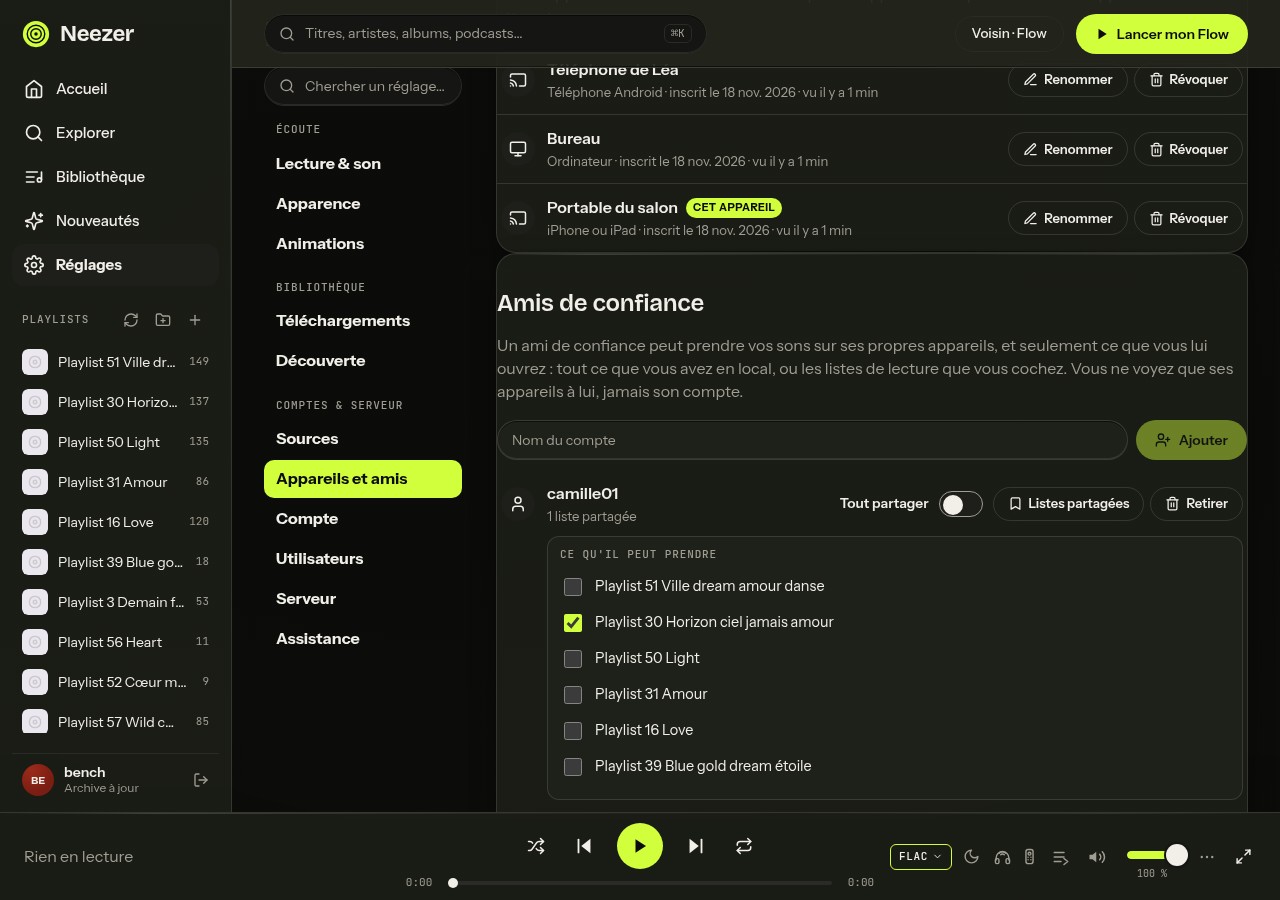
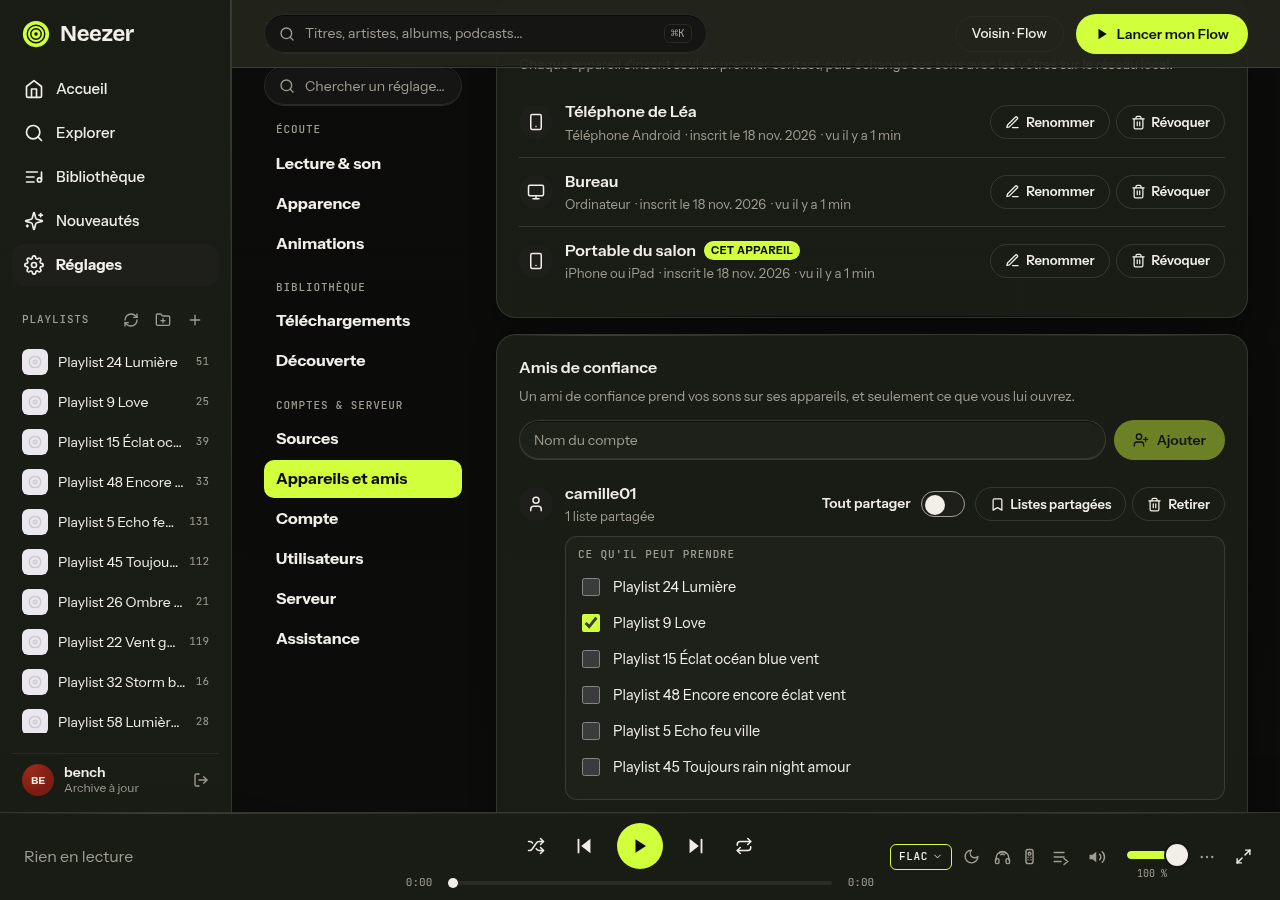
fix(lan): LN8 — le gabarit des cartes, les glyphes de plateforme et la ligne meta
Relecture orchestrateur de #326 :
1. les cartes reprennent le gabarit intérieur de Réglages (22 px de padding,
   titre 16 px/600, sous-titre 0,85 rem) — un composant enfant n'hérite pas du
   CSS de l'écran qui le rend, le contenu touchait le bord (0 px mesuré) ;
2. glyphe de téléphone pour Android et iOS (ajout de « smartphone » à
   Icon.svelte, autorisé par l'orchestrateur), écran pour un ordinateur ;
3. chaque fait de la ligne meta est un segment insécable et la ligne casse
   entre eux (« vu il y / a 1 min » mesuré à 340 px) ; la date d'inscription est
   le fait que la colonne étroite abandonne (≤ 760 px) ;
4. explication des appareils en une phrase : 3 lignes avant le premier appareil
   à 340 px (4 avant) ; la dernière carte finit 32 px au-dessus du mini-lecteur
   (676 ≤ 708).

Captures refaites et vérifiées : bureau, sélecteur, carte Serveur, 390, 340,
serveur sans la fonction.

diff --git a/webapp/src/components/LanSettings.svelte b/webapp/src/components/LanSettings.svelte
@@ -362,9 +362,8 @@
       {#if devices.length}<span class="count muted">{devices.length}</span>{/if}
     </div>
     <p class="muted sub">
-      Chaque appareil s'inscrit tout seul au premier contact avec le serveur, puis échange ses sons
-      avec vos autres appareils sur le même réseau. Révoquer un appareil le coupe chez tous vos
-      appareils&nbsp;: il devra se réinscrire.
+      Chaque appareil s'inscrit seul au premier contact, puis échange ses sons avec les vôtres sur le
+      réseau local.
     </p>
 
     {#if !devices.length}
@@ -404,7 +403,14 @@
                   {#if lan.deviceState(d) === "current"}<span class="tag">cet appareil</span>{/if}
                   {#if lan.deviceState(d) === "revoked"}<span class="tag tag-off">révoqué</span>{/if}
                 </span>
-                <span class="meta muted">{lan.deviceDetail(d, now)}</span>
+                <span class="meta muted">
+                  {#each lan.deviceSegments(d, now) as fact, i}
+                    <!-- The dot is GLUED to the segment it introduces: a
+                         separator of its own could end a line alone. The
+                         enrolment date is the fact a narrow column drops. -->
+                    <span class="seg" class:wide-only={fact.kind === "enrolled"}>{i > 0 ? "· " : ""}{fact.text}</span>
+                  {/each}
+                </span>
               {/if}
             </div>
             <div class="acts">
@@ -415,6 +421,7 @@
                   Confirmer la révocation
                 </button>
                 <button class="btn btn-sm btn-ghost" on:click={() => (confirming = null)}>Annuler</button>
+                <span class="confirm-hint muted small">Il devra se réinscrire.</span>
               {:else}
                 <button
                   class="btn btn-sm btn-ghost"
@@ -450,9 +457,7 @@
   <section class="card">
     <h2>Amis de confiance</h2>
     <p class="muted sub">
-      Un ami de confiance peut prendre vos sons sur ses propres appareils, et seulement ce que vous
-      lui ouvrez&nbsp;: tout ce que vous avez en local, ou les listes de lecture que vous cochez.
-      Vous ne voyez que ses appareils à lui, jamais son compte.
+      Un ami de confiance prend vos sons sur ses appareils, et seulement ce que vous lui ouvrez.
     </p>
 
     <form class="add" on:submit|preventDefault={addFriend}>
@@ -680,6 +685,31 @@
 {/if}
 
 <style>
+  /* The cards carry Réglages' inner gabarit: 22 px of padding, 16 px of gap to
+     the next card, a 16 px/600 title and a 0.85 rem subtitle (Settings.svelte's
+     own `.card`, `.card h2`, `.sub`). Svelte scopes CSS per component, so those
+     rules do not reach these sections: without this block the title and every
+     paragraph sat flush against the card's border while the rows were indented. */
+  .card {
+    padding: 22px;
+    margin-bottom: 16px;
+  }
+  .card:last-of-type {
+    margin-bottom: 0;
+  }
+  h2 {
+    margin: 0 0 8px;
+    font-family: var(--font-body);
+    font-size: 16px;
+    font-weight: 600;
+    letter-spacing: 0;
+    line-height: 1.3;
+  }
+  .sub {
+    font-size: 0.85rem;
+    line-height: 1.5;
+    margin: 4px 0 14px;
+  }
   .head {
     display: flex;
     align-items: baseline;
@@ -724,7 +754,9 @@
     grid-template-columns: 34px minmax(0, 1fr);
     align-items: center;
     gap: 4px 12px;
-    padding: 12px 4px;
+    /* No horizontal inset: the glyph starts on the card's own content edge, in
+       line with the title above it. */
+    padding: 12px 0;
   }
   .member + .member {
     border-top: 1px solid var(--ln);
@@ -758,9 +790,25 @@
     font-weight: 600;
     overflow-wrap: anywhere;
   }
+  /* One fact per segment, each unbreakable: at 340 px the line wraps between
+     "inscrit le 18 nov. 2026" and "vu il y a 1 min", never through one of them
+     ("vu il y / a 1 min" was what a plain text run did). */
   .meta {
+    display: flex;
+    flex-wrap: wrap;
+    align-items: baseline;
+    gap: 0 5px;
     font-size: 0.82rem;
-    overflow-wrap: anywhere;
+  }
+  .seg {
+    white-space: nowrap;
+  }
+  /* Three facts do not fit a phone's column: the enrolment date goes first, so
+     a row keeps the platform and the last sighting on one line each. */
+  @media (max-width: 760px) {
+    .wide-only {
+      display: none;
+    }
   }
   .tag {
     font-size: 0.68rem;
@@ -793,6 +841,10 @@
   }
   .danger:hover:not(:disabled) {
     background: var(--s2);
+  }
+  .confirm-hint {
+    flex-basis: 100%;
+    text-align: right;
   }
   .rename {
     display: flex;

diff --git a/webapp/src/lib/lan.js b/webapp/src/lib/lan.js
@@ -217,9 +217,13 @@ export function platformLabel(platform) {
   }
 }
 
-/** The glyph of one platform (Icon.svelte names). */
+/**
+ * The glyph of one platform (Icon.svelte names): a screen for a computer, a
+ * phone for a handset. `ios` does not say whether it is an iPhone or an iPad,
+ * so it gets the phone too rather than a glyph that would guess wrong.
+ */
 export function platformIcon(platform) {
-  return platform === "desktop" ? "monitor" : "cast";
+  return platform === "desktop" ? "monitor" : "smartphone";
 }
 
 /** "current" | "revoked" | "enrolled" — what a device row's state is called. */
@@ -259,14 +263,29 @@ export function enrolledLabel(iso) {
   return new Date(at).toLocaleDateString("fr-FR", { day: "numeric", month: "short", year: "numeric" });
 }
 
-/** One device's second line: its platform, when it enrolled, when it was seen. */
-export function deviceDetail(device, now = Date.now()) {
-  if (!device) return "";
-  const parts = [platformLabel(device.platform)];
+/**
+ * One device's second line, FACT by fact: the platform, when it enrolled, when
+ * it was last seen. Each `kind` lets the screen decide where a fact is worth
+ * its line — the enrolment date is the first to go in a narrow column — and
+ * every segment is rendered unbreakable, so "vu il y a 1 min" is never cut.
+ */
+export function deviceSegments(device, now = Date.now()) {
+  if (!device) return [];
+  const out = [{ kind: "platform", text: platformLabel(device.platform) }];
   const since = enrolledLabel(device.created);
-  if (since) parts.push(`inscrit le ${since}`);
-  parts.push(deviceState(device) === "revoked" ? "révoqué" : seenLabel(device.last_seen, now));
-  return parts.join(" · ");
+  if (since) out.push({ kind: "enrolled", text: `inscrit le ${since}` });
+  out.push({
+    kind: "seen",
+    text: deviceState(device) === "revoked" ? "révoqué" : seenLabel(device.last_seen, now),
+  });
+  return out;
+}
+
+/** The same line as one string, for tests and any plain-text use. */
+export function deviceDetail(device, now = Date.now()) {
+  return deviceSegments(device, now)
+    .map((fact) => fact.text)
+    .join(" · ");
 }
 
 /** What a friend is allowed to see, in one line. */

diff --git a/webapp/src/components/Icon.svelte b/webapp/src/components/Icon.svelte
@@ -114,6 +114,9 @@
     <rect x="2" y="3" width="20" height="14" rx="2" />
     <path d="M8 21h8" />
     <path d="M12 17v4" />
+  {:else if name === "smartphone"}
+    <rect x="5" y="2" width="14" height="20" rx="2" />
+    <path d="M12 18h.01" />
   {:else if name === "cast"}
     <path d="M2 16.1A5 5 0 0 1 5.9 20" />
     <path d="M2 12.05A9 9 0 0 1 9.95 20" />

diff --git a/docs/agents/lan-nodes.md b/docs/agents/lan-nodes.md
@@ -1488,7 +1488,9 @@ optimistic, and every refusal puts the row back with its cause and « Réessayer
   section's own load; a cause line per row for a failed mutation; `role="switch"` with
   `aria-checked` on the two switches; every icon-only control labelled; glyphs through `Icon.svelte`;
   no emoji; the design system's `.card`, `.btn`, `.field`, `.chip` and a switch drawn the way
-  `webapp.md` draws one (`--btn`/`--onbtn` track, `--s2` + `--dim` when off).
+  `webapp.md` draws one (`--btn`/`--onbtn` track, `--s2` + `--dim` when off). The device glyph is the
+  platform's: a screen for a computer, a handset for Android and iOS (`smartphone` was added to
+  `Icon.svelte` — no existing glyph said "phone", and `cast` said the wrong thing).
 - `webapp/src/routes/Settings.svelte` — one import, one `onMount` probe, one nav entry in the
   « Comptes & serveur » group and one `{#if tab === "lan"}` include. Nothing else.
 - `webapp/test/lan.test.mjs` (13 tests) and the screenshots under
@@ -1531,11 +1533,26 @@ enrolments and real friendships through the routes; `PYTHON=~/.cache/neezer-ln8/
 | Rename, optimistic | new name painted **while its PATCH is held open** (0 console/frame work); on a 500 the old name returns with « erreur du serveur (HTTP 500 : Erreur serveur.) » and « Réessayer » | bench |
 | Friend picker | **0** requests on a cached library; **1 GET** cold | bench + `lan.test.mjs` |
 | Layout | **0 px** sideways overflow at 390 and 340 px; **0** control wider than the column; device rows stack their actions under the name | bench (`scrollWidth - clientWidth`, then a per-element right edge) |
+| The card's inner gabarit | **22 px** from the border to the title in all three cards (Réglages' own padding) | bench, `title.left - card.left - 1` |
+| The device line | **0** meta segment cut across lines; **3 lines** of explanation before the first device at 340 px (4 before this pass) | bench, `getClientRects().length > 1` per segment, then the paragraph's height / line-height |
+| The last card under the mini player | ends **32 px above** it on a phone (676 ≤ 708) and **28 px** at 340 px (636 ≤ 664) | bench, `scrollIntoViewIfNeeded` then the two rects |
 | `npm test` | **804 passed, 0 failed** (13 new) | `cd webapp && npm test` |
 | `npm run build` | green, **0 warning** naming `LanSettings.svelte` or `lib/lan.js` | `cd webapp && npm run build` |
 
 **Rules a measurement taught.**
 
+- **A child component's `.card` inherits NOTHING from the screen that renders it.** Svelte scopes
+  CSS per component, so `Settings.svelte`'s `.card` (22 px of padding, 16 px/600 title, 0.85 rem
+  subtitle) never reached `LanSettings.svelte`'s sections: measured on the first phone capture, the
+  title and the paragraph sat **flush against the card's border (0 px)** while the rows were
+  indented. The gabarit has to be repeated in the card's own component — same numbers, same tokens —
+  and the bench now asserts `22` on every card.
+- **A line of facts is a row of unbreakable segments, not a sentence.** "vu il y a 1 min" came out as
+  "vu il y / a 1 min" at 340 px. Each fact is its own nowrap span and the line wraps between them
+  (`display: flex; flex-wrap: wrap`), the separator glued to the NEXT segment so it can never end a
+  line alone; and the enrolment date — the least useful of the three on a phone — is the fact a
+  narrow column drops (`@media (max-width: 760px)`), which took the paragraph above the first device
+  from 4 lines to 3.
 - **A `<button>` laid out with `display: flex` will not shrink its text.** The admin switch's
   explanation and its title stayed on ONE line at 1280 px, the hint's last line running past the
   card's content box: `justify-content: space-between` gave the text column its max-content width and
